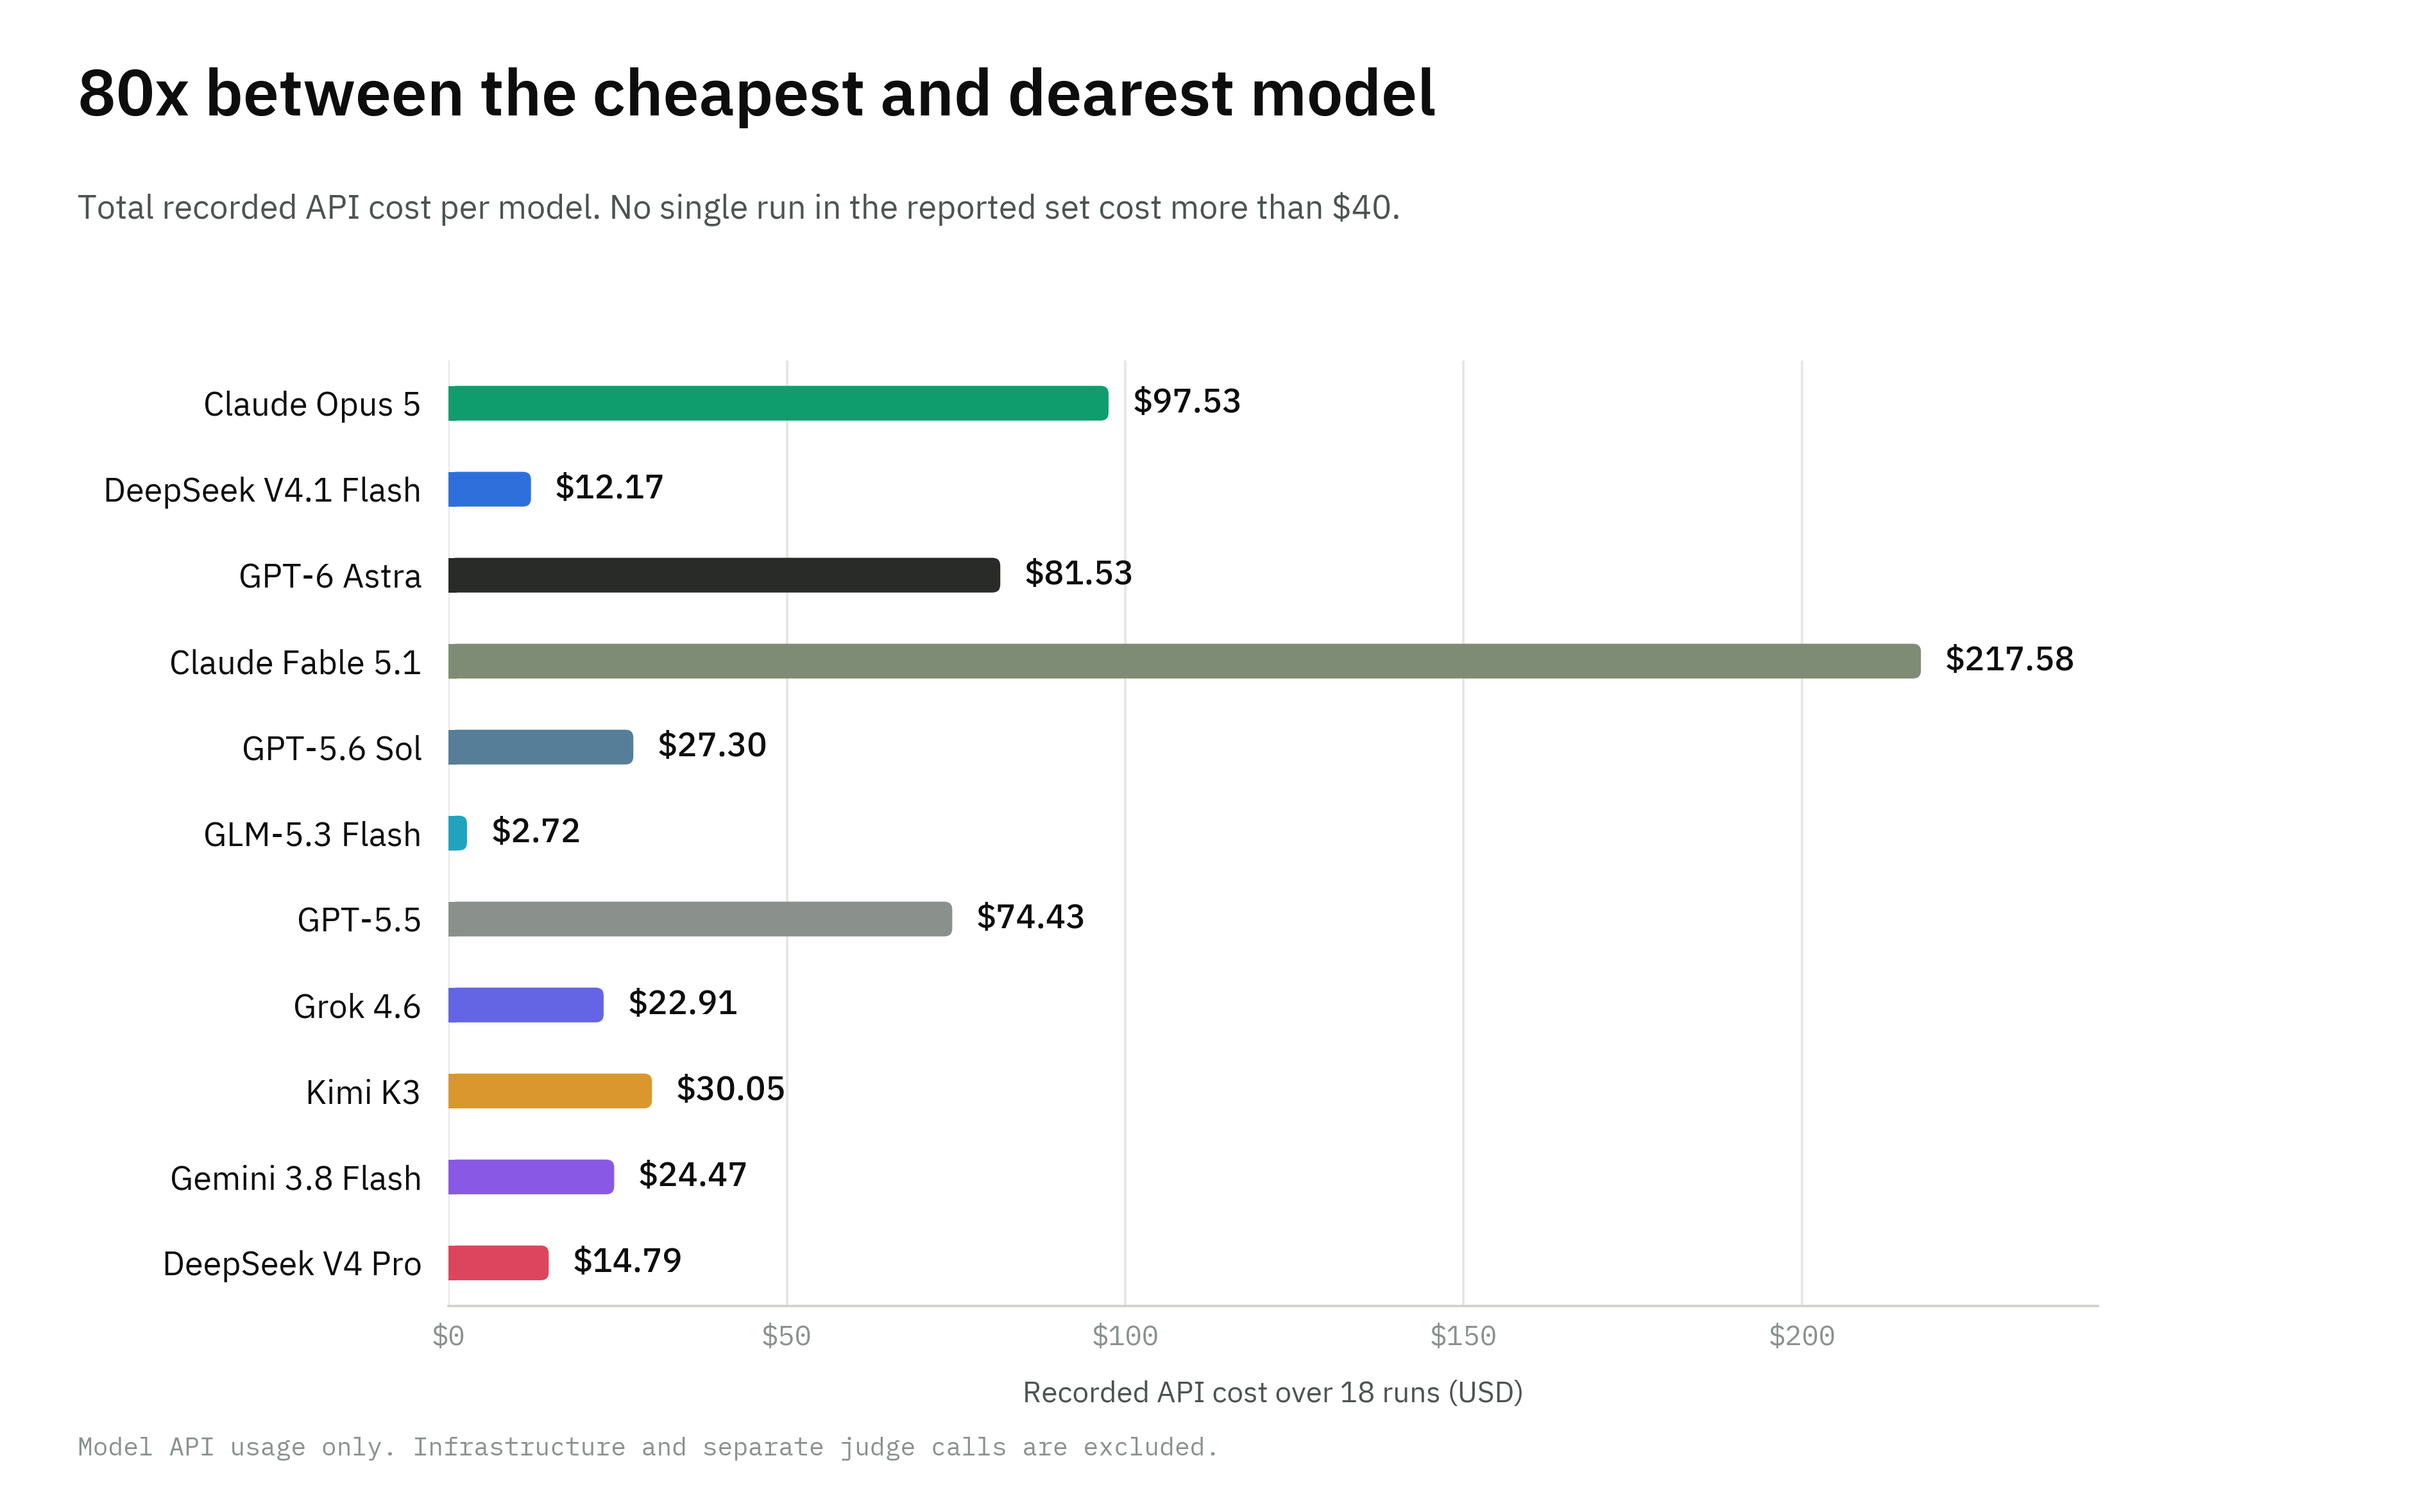
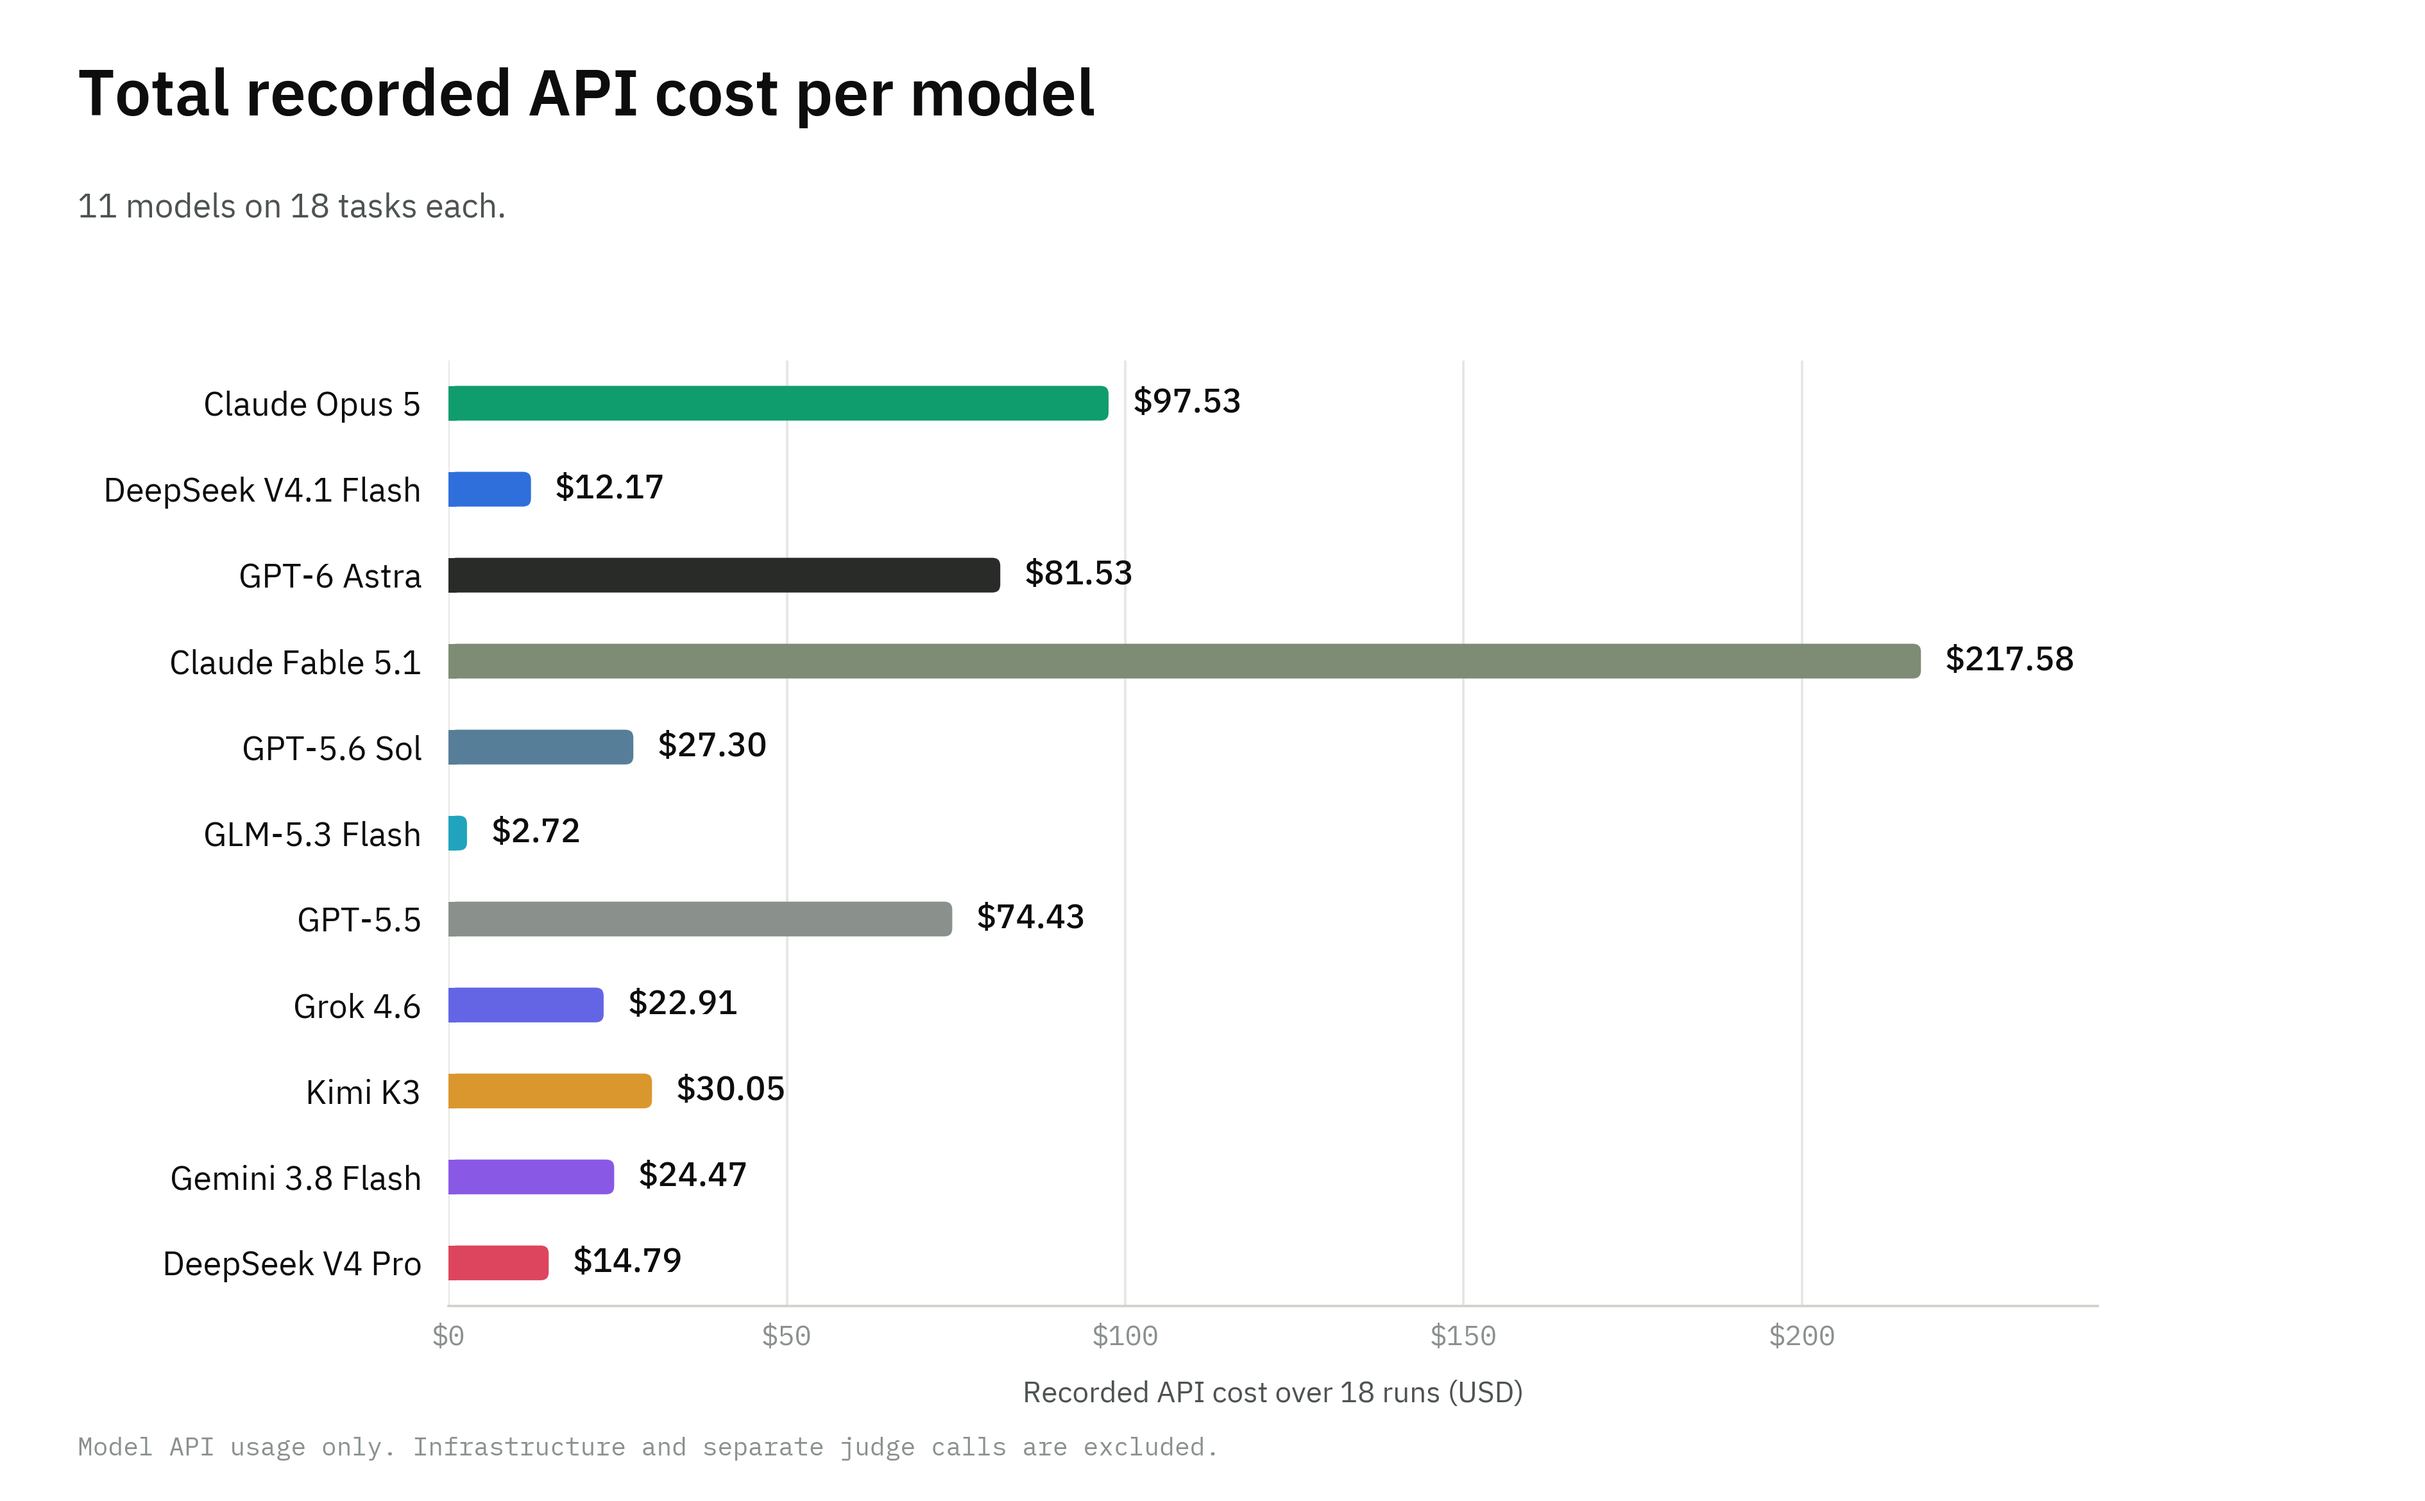
Drop mean recorded score from CyberLatch leaderboard and cost figures
Leaderboard chart now shows tasks solved only; cost chart is titled
"Total recorded API cost per model" without the 80x annotation. The
leaderboard table loses its mean score column and the cost paragraph no
longer names the task behind Fable's most expensive run.

Claude-Session: https://claude.ai/code/session_01SgAkQGP3Cq4SyAhRUXTNRU

Changed region(s): [[0.0312, 0.0312, 0.5931, 0.0936], [0.0312, 0.1248, 0.5619, 0.156]]

diff --git a/app/research/cyberlatch/page.tsx b/app/research/cyberlatch/page.tsx
@@ -27,17 +27,17 @@ function Fig({ src, alt, caption }: { src: string; alt: string; caption: string 
 }
 
 const leaderboard = [
-  { model: "Claude Opus 5", solved: "11/18", rate: "61%", score: "97.1%", cost: "$97.53", lead: true },
-  { model: "DeepSeek V4.1 Flash", solved: "10/18", rate: "56%", score: "93.0%", cost: "$12.17" },
-  { model: "GPT-6 Astra", solved: "10/18", rate: "56%", score: "89.5%", cost: "$81.53" },
-  { model: "Claude Fable 5.1", solved: "9/18", rate: "50%", score: "96.6%", cost: "$217.58" },
-  { model: "GPT-5.6 Sol", solved: "9/18", rate: "50%", score: "94.6%", cost: "$27.30" },
-  { model: "GLM-5.3 Flash", solved: "8/18", rate: "44%", score: "91.4%", cost: "$2.72" },
-  { model: "GPT-5.5", solved: "8/18", rate: "44%", score: "81.4%", cost: "$74.43" },
-  { model: "Grok 4.6", solved: "7/18", rate: "39%", score: "87.2%", cost: "$22.91" },
-  { model: "Kimi K3", solved: "7/18", rate: "39%", score: "85.9%", cost: "$30.05" },
-  { model: "Gemini 3.8 Flash", solved: "6/18", rate: "33%", score: "90.8%", cost: "$24.47" },
-  { model: "DeepSeek V4 Pro", solved: "4/18", rate: "22%", score: "79.7%", cost: "$14.79" },
+  { model: "Claude Opus 5", solved: "11/18", rate: "61%", cost: "$97.53", lead: true },
+  { model: "DeepSeek V4.1 Flash", solved: "10/18", rate: "56%", cost: "$12.17" },
+  { model: "GPT-6 Astra", solved: "10/18", rate: "56%", cost: "$81.53" },
+  { model: "Claude Fable 5.1", solved: "9/18", rate: "50%", cost: "$217.58" },
+  { model: "GPT-5.6 Sol", solved: "9/18", rate: "50%", cost: "$27.30" },
+  { model: "GLM-5.3 Flash", solved: "8/18", rate: "44%", cost: "$2.72" },
+  { model: "GPT-5.5", solved: "8/18", rate: "44%", cost: "$74.43" },
+  { model: "Grok 4.6", solved: "7/18", rate: "39%", cost: "$22.91" },
+  { model: "Kimi K3", solved: "7/18", rate: "39%", cost: "$30.05" },
+  { model: "Gemini 3.8 Flash", solved: "6/18", rate: "33%", cost: "$24.47" },
+  { model: "DeepSeek V4 Pro", solved: "4/18", rate: "22%", cost: "$14.79" },
 ];
 
 const notes = [
@@ -239,8 +239,8 @@ export default function CyberLatchPage() {
               </h2>
               <Fig
                 src="/cyberlatch/01_leaderboard.png"
-                alt="Opus solves 11 of 18 tasks. DeepSeek V4.1 Flash and GPT-6 Astra solve 10. Fable and GPT-5.6 Sol solve 9. GLM and GPT-5.5 solve 8. Grok and Kimi solve 7. Gemini solves 6 and DeepSeek V4 Pro solves 4. Mean recorded scores range from 79.7 to 97.1 percent."
-                caption="Solved tasks and mean deterministic scores across the selected runs."
+                alt="Opus solves 11 of 18 tasks. DeepSeek V4.1 Flash and GPT-6 Astra solve 10. Fable and GPT-5.6 Sol solve 9. GLM and GPT-5.5 solve 8. Grok and Kimi solve 7. Gemini solves 6 and DeepSeek V4 Pro solves 4."
+                caption="Tasks solved out of 18 by each model across the selected runs."
               />
               <div className="overflow-x-auto">
                 <table className="bench-table my-6 max-w-[760px]">
@@ -249,7 +249,6 @@ export default function CyberLatchPage() {
                       <th>Model</th>
                       <th className="n">Solved</th>
                       <th className="n">Solve rate</th>
-                      <th className="n">Mean recorded score</th>
                       <th className="n">Recorded API cost</th>
                     </tr>
                   </thead>
@@ -259,7 +258,6 @@ export default function CyberLatchPage() {
                         <td className="whitespace-nowrap">{r.model}</td>
                         <td className="n">{r.solved}</td>
                         <td className="n">{r.rate}</td>
-                        <td className="n">{r.score}</td>
                         <td className="n">{r.cost}</td>
                       </tr>
                     ))}
@@ -455,10 +453,9 @@ export default function CyberLatchPage() {
                 caption="Recorded API cost per model over the 18 selected runs."
               />
               <p className={P}>
-                Fable&apos;s most expensive run was the memory-safety repair of a C JSON library. It took 1,024 agent
-                turns over 82 minutes and cost $40.40, and it passed every check. Astra&apos;s longest run was the
-                same task: 140 minutes and $30.25, also solved. GPT-5.5 spent 93 minutes and $15.18 on it and
-                recorded a score of 30%.
+                Fable&apos;s most expensive run took 1,024 agent turns over 82 minutes and cost $40.40, and it passed
+                every check. Astra&apos;s longest run was the same task: 140 minutes and $30.25, also solved. GPT-5.5
+                spent 93 minutes and $15.18 on it and recorded a score of 30%.
               </p>
               <p className={P}>
                 Kimi, Grok, and Gemini had median run times of about 11 to 13 minutes. GPT-5.5 took 13 and Astra 15.
